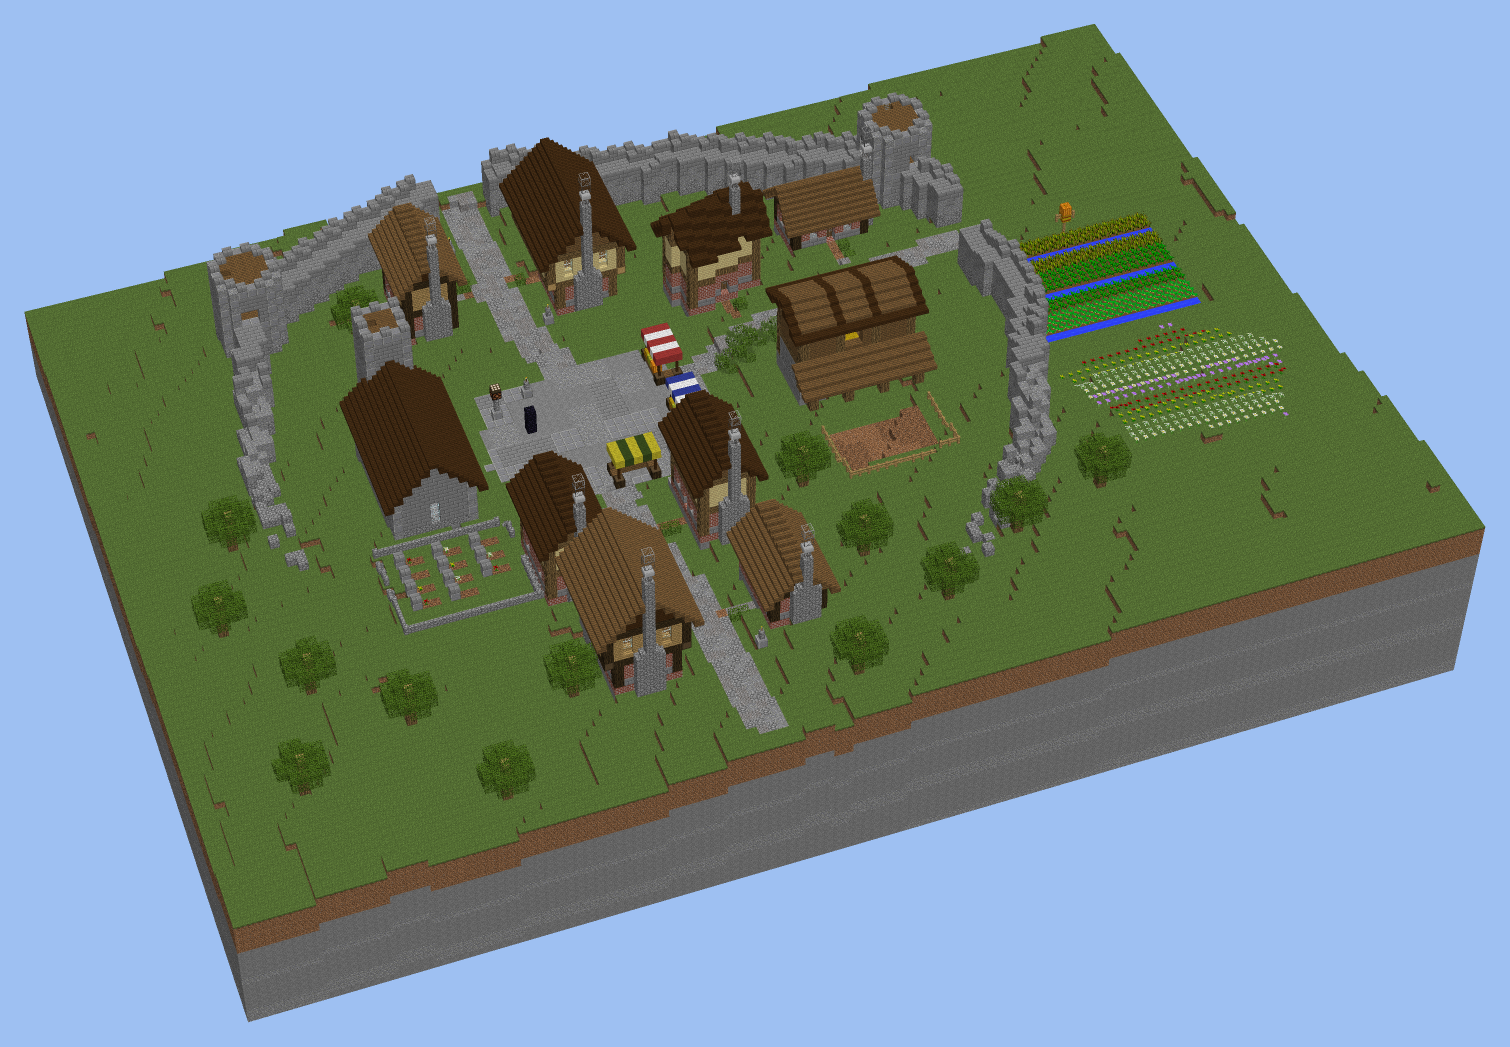
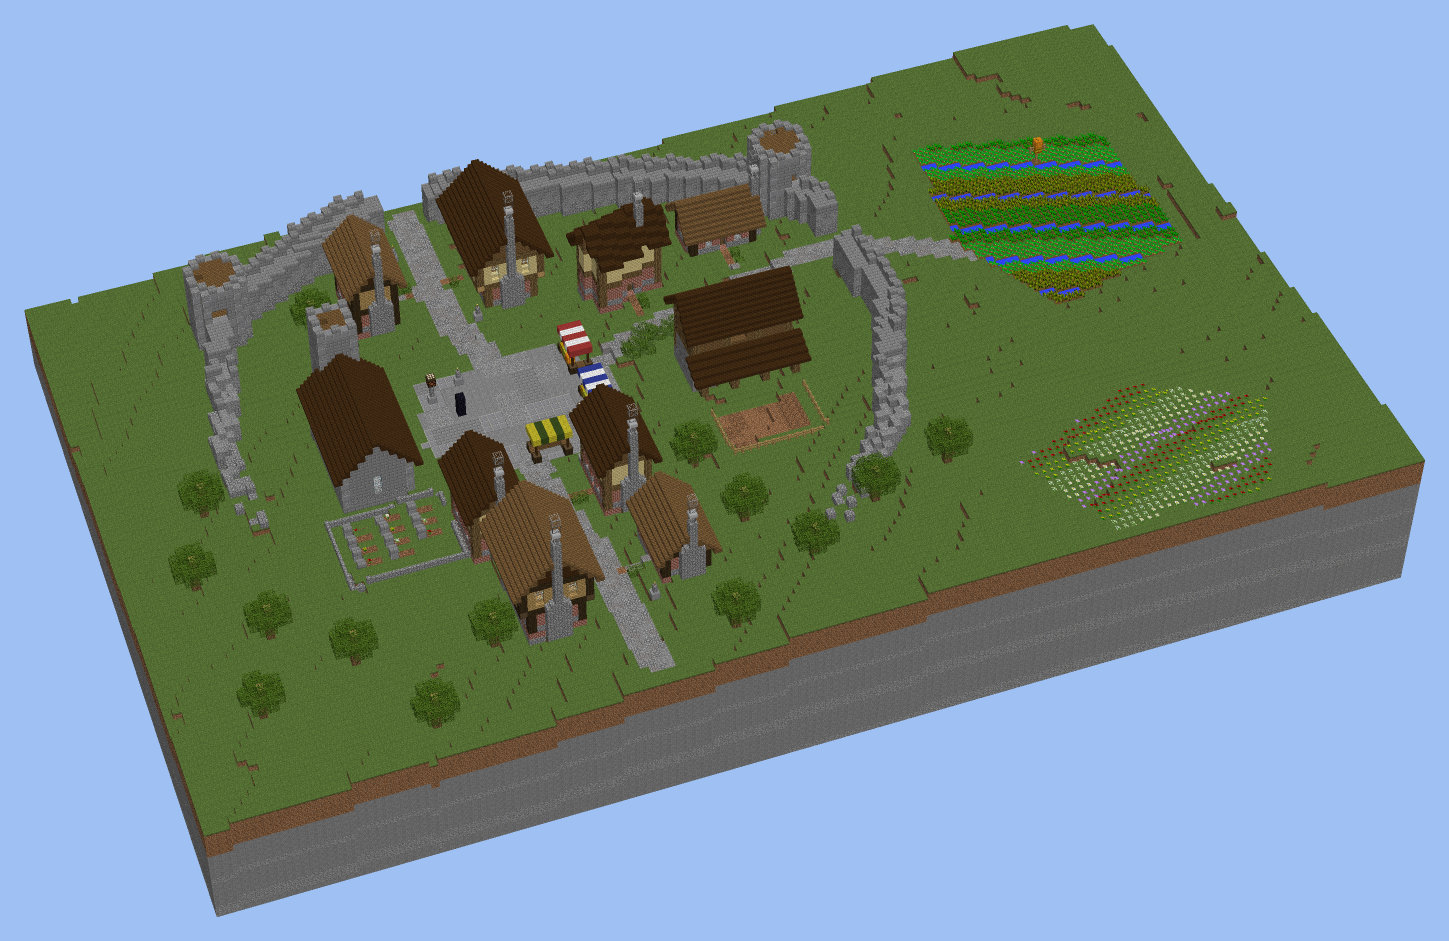
Chantry Gill assets: ridges that meet, a plainer byre, fields out in the land
A two-wide ridge on a turned house had its top rows turned along it; with
ridge_slab they now rise to each other. The cottages stand on cobble, the
byre wears a plain dark oak roof, and the field and the flower meadow are
shapes out past the wall with their rows turned to the hill (a crops op and
a turned flower field), the field laid level for its ditches. Tests and
LAYER-DOCUMENT lines; every recorded hash holds.

Claude-Session: https://claude.ai/code/session_01SkxaMovP21NqxJRVezmVa6

diff --git a/freeform/lib/boards/chantry-gill/assets/street_spec.py b/freeform/lib/boards/chantry-gill/assets/street_spec.py
@@ -23,6 +23,10 @@ for k in ("chapel-stone", "byre"):
     styles[k] = town["styles"].get(k, bld["styles"][k])
 for k in ("fell-cottage", "fell-cottage-dark", "chapel-stone", "byre"):
     styles[k]["ridge_slab"] = True
+styles["byre"] = {k: v for k, v in styles["byre"].items() if k not in ("verge", "roof_bands", "slab_roof")}
+styles["byre"].update(roof=["PLANKS", 5], stair="DARK_OAK_STAIRS", slab=["WOOD_SLAB", 5])
+for k in ("fell-cottage", "fell-cottage-dark"):
+    styles[k]["plinth"] = "COBBLE"
 for k in ("fell-cottage", "fell-cottage-dark"):
     styles[k].update(stack={"block": "COBBLE", "base": "COBBLE_STAIRS"}, chimney="COBBLE", joists_along=True,
                      chimney_top=["IRON_BARS", ["SLAB", 0], ["STAINED_GLASS", 7], ["STAINED_GLASS", 8]])
@@ -31,16 +35,19 @@ QUOINS = [["STONE", 5], ["STONE", 6]]
 COURSES = ["COBBLE", ["COBBLE", ["STONE", 5]], ["STONE", 5], [["STONE", 5], ["STONEBRICK", 0]], ["STONEBRICK", 0]]
 
 MAIN = [[50, -2], [49, 14], [51, 26], [52, 38], [51, 52], [53, 64], [54, 86]]
-LANE = [[60, 36], [72, 31], [86, 28], [98, 26]]
+LANE = [[60, 36], [72, 31], [86, 28], [98, 26], [110, 30], [118, 34]]
+FIELD = [[116, 12], [140, 18], [142, 40], [122, 46], [114, 30]]
 SQUARE = [[42, 30], [60, 28], [66, 36], [63, 47], [44, 48], [40, 40]]
 ground = [
-    {"id": "sheet", "op": "outline", "box": [0, -4, 129, 89]},
+    {"id": "sheet", "op": "outline", "box": [0, -4, 149, 89]},
     {"id": "fell", "op": "base", "height": 40,
      "terms": [{"tilt": {"dx": 0.025, "dz": 0.045}}, {"gauss": {"at": [96, 92], "r": 46, "rise": 5}},
                {"noise": {"field": "small", "rise": 0.9}}, {"noise": {"field": "big", "rise": 1.6}}],
      "note": "the ground rising toward the south-east, a swell under its corner, rolling"},
     {"id": "square-level", "op": "level", "mode": "set", "top": "median", "inner": 1.0, "outer": 1.6,
      "areas": [{"polygon": SQUARE}], "note": "the square laid level, eased into the street"},
+    {"id": "field-level", "op": "level", "mode": "set", "top": "median", "inner": 1.0, "outer": 1.5,
+     "areas": [{"polygon": FIELD}], "note": "the field laid level, so its ditches hold their water"},
     {"id": "main-street", "op": "path", "line": MAIN, "width": 4, "max_grade": 0.15},
     {"id": "lane", "op": "path", "line": LANE, "width": 3, "max_grade": 0.2}]
 
@@ -125,11 +132,14 @@ build += [
      "at": [[x, z] for z in (51, 53, 55, 57) for x in (27, 31, 35)][:-1],
      "note": "headstones of polished andesite under a slab, the grave in coarse dirt before each, flowers on some"},
     {"id": "roses", "op": "blocks", "boxes": [F(55, 0, 9, 55, 0, 9, "AIR")]},
-    {"id": "flower-field", "op": "flowers", "area": {"polygon": [[100, 52], [114, 49], [124, 56], [118, 68], [102, 66]],
-     "rough": {"amp": 0.08, "cell": 4, "seed": 3}},
-     "flowers": [["FLOWER", 0], ["DANDELION", 0], ["FLOWER", 3], ["FLOWER", 8], ["FLOWER", 2]], "rows": 2},
-    {"id": "byre-field", "op": "field", "rect": [100, 30, 120, 46], "crops": [["WHEAT", 7], ["CARROTS", 7], ["POTATOES", 7]],
-     "rows": 6, "ditch": 3, "fence": "w", "scarecrows": [[110, 30]]},
+    {"id": "flower-field", "op": "flowers", "angle": -24, "rows": 2,
+     "area": {"polygon": [[104, 74], [122, 66], [136, 74], [130, 88], [110, 88]], "rough": {"amp": 0.08, "cell": 4, "seed": 3}},
+     "flowers": [["FLOWER", 0], ["DANDELION", 0], ["FLOWER", 3], ["FLOWER", 8], ["FLOWER", 2]],
+     "note": "a meadow of flowers down the slope south-east of the town, its rows across the fall"},
+    {"id": "byre-field", "op": "crops", "angle": 18, "rows": 6, "ditch": 3, "seed": 9,
+     "area": {"polygon": FIELD},
+     "crops": [["WHEAT", 7], ["CARROTS", 7], ["POTATOES", 7]], "scarecrows": [[130, 20]],
+     "note": "the byre's field out past the east gate, the lane running on to it, its strips turned with the hill"},
 ]
 # the wall faces the way an enemy comes, north and east, and has fallen down the town's flanks
 WALLS = [([[54, -1], [76, 4], [96, 14], [99, 22]], None, -1.4),
@@ -150,7 +160,7 @@ for n, (at, door, a, b) in enumerate((([96, 14], "s", [76, 4], [99, 22]), ([22, 
                   "door": door, "crenel": ["SLAB", 5], "quoins": QUOINS, "string": ["STONE", 6], "plinth": "COBBLE",
                   "floor": ["PLANKS", 1]})
 doc = {"document": "layers", "version": "draft-1",
-       "board": {"name": "Chantry Gill street", "x": [0, 129], "z": [-4, 89], "floor": 40, "height": 84, "seed": 3},
+       "board": {"name": "Chantry Gill street", "x": [0, 149], "z": [-4, 89], "floor": 40, "height": 84, "seed": 3},
        "styles": styles, "fields": {"pen": {"fbm": {"cell": 3, "octaves": 2, "seed": 5}},
                                     "small": {"fbm": {"cell": 10, "octaves": 3, "seed": 1}},
                                     "big": {"fbm": {"cell": 32, "octaves": 3, "seed": 2}}},

diff --git a/freeform/lib/pgmvox/scenery/green.py b/freeform/lib/pgmvox/scenery/green.py
@@ -7,6 +7,8 @@ and a field of flowers in rows.
                                               each side with a corner bitten off now and then, a plus on top
     flower_rows(w, cells, ground, flowers)    rows of flowers across a shape, two rows a kind, every cell filled
 """
+import math
+
 from pgmvox.core.blocks import B
 
 LEAVES = (B.LEAVES, 4)                       # oak leaves that never decay
@@ -73,15 +75,46 @@ def round_oak(w, x, z, ground, rng, trunk=3, log=(B.LOG, 0), leaves=LEAVES, bite
     return sorted(cells)
 
 
-def flower_rows(w, cells, ground, flowers, along="x", rows=2, on=(B.GRASS,)):
+def _row(x, z, along, angle):
+    """Which row a cell is in: rows run along x (or z), turned `angle` degrees."""
+    if angle:
+        t = math.radians(angle)
+        return math.floor(-x * math.sin(t) + z * math.cos(t)) if along == "x" else \
+            math.floor(x * math.cos(t) + z * math.sin(t))
+    return z if along == "x" else x
+
+
+def crop_rows(w, cells, ground, crops, rng, angle=0.0, rows=6, ditch=3, ripe=(0.15, (4, 8))):
+    """A field over any shape: farmland in strips of `rows` rows turned `angle` degrees, each strip one of `crops` in
+    turn, row `ditch` of every strip a water ditch, each cell laid at its own ground. Returns the cells laid."""
+    out = []
+    for x, z in cells:
+        r = _row(x, z, "x", angle)
+        g = ground(x, z)
+        for y in range(g + 1, g + 3):
+            if w.id(x, y, z) in (B.TALLGRASS, B.FLOWER, B.DANDELION):
+                w.set(x, y, z, B.AIR)
+        if ditch is not None and r % rows == ditch:
+            w.set(x, g, z, B.WATER)
+        else:
+            w.set(x, g, z, B.FARMLAND, 7)
+            c = crops[(r // rows) % len(crops)]
+            if c[0] == B.WHEAT and rng.random() < ripe[0]:
+                c = (B.WHEAT, int(rng.integers(*ripe[1])))
+            w.set(x, g + 1, z, *c)
+        out.append((x, z))
+    return out
+
+
+def flower_rows(w, cells, ground, flowers, along="x", rows=2, on=(B.GRASS,), angle=0.0):
     """Every cell of `cells` planted, in rows running `along` the axis, `rows` rows of each of `flowers` in turn, on
-    whatever of `on` the ground is topped with. Returns the cells planted."""
+    whatever of `on` the ground is topped with, the rows turned `angle` degrees. Returns the cells planted."""
     planted = []
     for x, z in cells:
         g = ground(x, z)
         if w.id(x, g, z) not in on or w.id(x, g + 1, z) != B.AIR:
             continue
-        row = z if along == "x" else x
+        row = _row(x, z, along, angle)
         w.set(x, g + 1, z, *flowers[(row // rows) % len(flowers)])
         planted.append((x, z))
     return planted

diff --git a/freeform/lib/tests/test_pgmvox.py b/freeform/lib/tests/test_pgmvox.py
@@ -2267,7 +2267,12 @@ class HouseDetails(unittest.TestCase):
         w = self.build([self.house(W=7, chimney=False)], style).world             # 9 wide over its overhang: odd
         ridge = [w.get(x, int(np.flatnonzero(w.ids[x - w.x0, :, -w.z0])[-1]), 0) for x in range(-3, 4)]
         self.assertEqual({b for b, _ in ridge}, {B.WOOD_SLAB})
-        w = self.build([self.house(W=6, chimney=False)], style).world             # 8 wide: two rows meet
+        w = self.build([self.house(W=6, chimney=False, heading=90)], style).world  # 8 wide, turned: two rows meet
+        z = 0
+        tops = {x: w.get(x, int(np.flatnonzero(w.ids[x - w.x0, :, z - w.z0])[-1]), z) for x in (-1, 0)}
+        self.assertEqual({b for b, _ in tops.values()}, {B.DARK_OAK_STAIRS})
+        self.assertEqual({d for _, d in tops.values()}, {0, 1})                     # rising east and west, to each other
+        w = self.build([self.house(W=6, chimney=False)], style).world
         x = 0
         tops = {z: w.get(x, int(np.flatnonzero(w.ids[x - w.x0, :, z - w.z0])[-1]), z) for z in (-1, 0)}
         self.assertEqual({b for b, _ in tops.values()}, {B.DARK_OAK_STAIRS})
@@ -2292,6 +2297,15 @@ class HouseDetails(unittest.TestCase):
         path = [w.get(0, 40, z) for z in range(-5, 1)]
         self.assertTrue(all(p[0] in (B.DIRT, B.GRAVEL) and p != (B.GRASS, 0) for p in path))
         self.assertTrue(any(w.id(x, 41, z) == B.LEAVES for x in (-1, 1) for z in range(-3, 1)))
+
+    def test_crops_lie_in_turned_strips_over_a_shape(self):
+        w = self.build([{"id": "c", "op": "crops", "area": {"rect": [-12, -12, 11, 11]}, "angle": 30, "rows": 4,
+                         "ditch": 2, "crops": [["WHEAT", 7], ["CARROTS", 7]], "seed": 1}]).world
+        wet = {(int(i) + w.x0, int(k) + w.z0) for i, k in np.argwhere(w.ids[:, 40, :] == B.WATER)}
+        self.assertGreater(len(wet), 50)
+        self.assertGreater(int((w.ids == B.CARROTS).sum()), 50)
+        rows = {z for x, z in wet if x == 0}, {z for x, z in wet if x == 6}
+        self.assertNotEqual(rows[0], rows[1])                                     # the ditches run turned
 
     def test_a_field_lays_farmland_and_its_fence_gate(self):
         w = self.build([{"id": "f", "op": "field", "rect": [-10, -10, 10, 10], "crops": [["WHEAT", 7]]}]).world

diff --git a/freeform/lib/pgmvox/document/layers.py b/freeform/lib/pgmvox/document/layers.py
@@ -836,7 +836,7 @@ def build(doc):
                                   else None)
             for x, z in got:
                 laid[x - x0, z - z0] = True
-        elif L["op"] in ("hedge", "small_trees", "flowers"):
+        elif L["op"] in ("hedge", "small_trees", "flowers", "crops"):
             from pgmvox.scenery import green as GR
             g_at = lambda x, z: int(Hi[x - x0, z - z0])                                     # noqa: E731
             rr = np.random.default_rng(L.get("seed", bd.get("seed", 0)))
@@ -855,8 +855,16 @@ def build(doc):
                                         leaves=block(L.get("leaves", ["LEAVES", 4])), bite=L.get("bite", 0.35))
             else:
                 e, _ = area_distance(L["area"], X, Z, fields, lines)
-                got = GR.flower_rows(w, [(int(X[i, k]), int(Z[i, k])) for i, k in np.argwhere((e < 1) & land)], g_at,
-                                     [block(f) for f in L["flowers"]], along=L.get("along", "x"), rows=L.get("rows", 2))
+                where = [(int(X[i, k]), int(Z[i, k])) for i, k in np.argwhere((e < 1) & land & (water == 0))]
+                if L["op"] == "crops":
+                    got = GR.crop_rows(w, where, g_at, [block(c) for c in L["crops"]], rr, angle=L.get("angle", 0.0),
+                                       rows=L.get("rows", 6), ditch=L.get("ditch", 3))
+                    for sx, sz in L.get("scarecrows", []):
+                        from pgmvox.built import props as PR
+                        PR.scarecrow(w, sx, sz, L.get("facing", "n"))
+                else:
+                    got = GR.flower_rows(w, where, g_at, [block(f) for f in L["flowers"]], along=L.get("along", "x"),
+                                         rows=L.get("rows", 2), angle=L.get("angle", 0.0))
             for x, z in got:
                 if 0 <= x - x0 < laid.shape[0] and 0 <= z - z0 < laid.shape[1]:
                     laid[x - x0, z - z0] = True

diff --git a/freeform/lib/pgmvox/built/build.py b/freeform/lib/pgmvox/built/build.py
@@ -280,7 +280,7 @@ def lay_roof(w, field, body, stair=None, slab=None, verge=None, ridge_cap=False,
     (id, data) a half course and a one-wide ridge take. verge: the (id, data) of the roof's outer ring and,
     with ridge_cap, its ridge. inside(x, z): the building's own footprint, where nothing is hung under a
     column; by default the field's wall line. lowest: no roof block below this course. ridge_slab: a ridge one
-    block wide is laid in slabs, not in stairs turned along it."""
+    block wide is laid in slabs, and one two wide in stairs rising to each other, never turned along it."""
     verge = verge or body
     inside = inside or field.over_walls
     rim = {c for c in field.cells() if any(not field.covers(c[0] + dx, c[1] + dz)
@@ -320,9 +320,12 @@ def _stair_top(field, stair, slab, x, z, ridge_slab=False):
     partner = field.ridge_partner(x, z)
     if ridge_slab and slab is not None:
         ax, az = vec(field.along_ridge_outward(x, z))
-        if not any(field.covers(x + sx, z + sz) and field.crown(x + sx, z + sz) == field.peak
-                   for sx, sz in ((-az, ax), (az, -ax))):                    # nothing beside it at the peak
+        beside = [(sx, sz) for sx, sz in ((-az, ax), (az, -ax))
+                  if field.covers(x + sx, z + sz) and field.crown(x + sx, z + sz) == field.peak]
+        if not beside:                                                      # one wide: a row of slabs
             return slab[0], slab[1] & 7, False, None
+        up = beside[0]                                                      # two wide: each rises to the other
+        return stair, stair_data(up), False, (stair, stair_data(opposite(up), True))
     if partner is not None:
         return stair, stair_data(partner), False, (stair, stair_data(opposite(partner), True))
     if slab is None:

diff --git a/freeform/lib/boards/chantry-gill/assets/town_spec.py b/freeform/lib/boards/chantry-gill/assets/town_spec.py
@@ -29,8 +29,8 @@ build = [
         F(14, 41, 26, 14, 43, 26, ["LOG", 0]), F(18, 41, 26, 18, 43, 26, ["LOG", 0]),
         F(22, 41, 26, 22, 43, 26, ["LOG", 0]), F(26, 41, 26, 26, 43, 26, ["LOG", 0]),
         F(15, 43, 26, 17, 43, 26, ["LOG", 4]), F(19, 43, 26, 21, 43, 26, ["LOG", 4]), F(23, 43, 26, 25, 43, 26, ["LOG", 4]),
-        F(13, 45, 24, 27, 45, 24, ["WOOD_SLAB", 1]), F(13, 44, 25, 27, 44, 25, ["WOOD_SLAB", 9]),
-        F(13, 44, 26, 27, 44, 26, ["WOOD_SLAB", 1]), F(13, 43, 27, 27, 43, 27, ["WOOD_SLAB", 9])],
+        F(13, 45, 24, 27, 45, 24, ["WOOD_SLAB", 5]), F(13, 44, 25, 27, 44, 25, ["WOOD_SLAB", 13]),
+        F(13, 44, 26, 27, 44, 26, ["WOOD_SLAB", 5]), F(13, 43, 27, 27, 43, 27, ["WOOD_SLAB", 13])],
      "note": "three deep at the main roof's half-block pitch, its eave a row of upper slabs"},
     {"id": "pen", "op": "wall", "line": [[14, 29], [14, 37], [26, 37], [26, 29]], "height": 1, "blocks": ["FENCE"]},
     {"id": "pen-gate", "op": "blocks", "boxes": [F(20, 41, 37, 20, 41, 37, ["FENCE_GATE", 0])]},

diff --git a/analysis/freeform-vs-studio/LAYER-DOCUMENT.md b/analysis/freeform-vs-studio/LAYER-DOCUMENT.md
@@ -149,7 +149,8 @@ the slope and rock in beds that follow the surface. The water's bed has a stack 
 | `paving` | `area`, `blocks` (each taking an equal share), `cell` (the size of a cell one block is laid over), `seed` | the document's own |
 | `hedge` | `line` or `near` + `offset`, `leaves`, `modules`, `drop`, `grass` (in the checker's gaps) | `green.hedge` |
 | `small_trees` | `at` (points), `trunk`, `log`, `leaves`, `bite` | `green.round_oak` |
-| `flowers` | `area`, `flowers`, `along`, `rows` | `green.flower_rows` |
+| `flowers` | `area`, `flowers`, `along`, `rows`, `angle` | `green.flower_rows` |
+| `crops` | `area`, `crops`, `angle`, `rows`, `ditch`, `scarecrows` | `green.crop_rows` |
 
 **A hedge, a wall and a fence are the same layer with different blocks.** The island's hedge runs four blocks off
 the road with a gap every fourteen, and its curtain wall holds its crown level over runs of five:
@@ -164,7 +165,7 @@ block in a frame's bay.
 
 **A style's details are each off until it names them.** `sill_in` makes the wall block under a window a stair of
 the facade's kind; `quoins` and `string` dress a style without posts; `stack` stands a chimney outside the gable
-and `chimney_top` caps either chimney. `joists_along`, `slab_roof`, `ridge_slab` (a ridge one wide laid in slabs) and `verge` with `roof_bands` (the roof's ring
+and `chimney_top` caps either chimney. `joists_along`, `slab_roof`, `ridge_slab` (a ridge one wide laid in slabs, one two wide in stairs rising to each other) and `verge` with `roof_bands` (the roof's ring
 and bands across it in other blocks) follow, and `plain_turned` gives a turned house no windows, one post a corner
 and a door only on a straight run of three.
 
